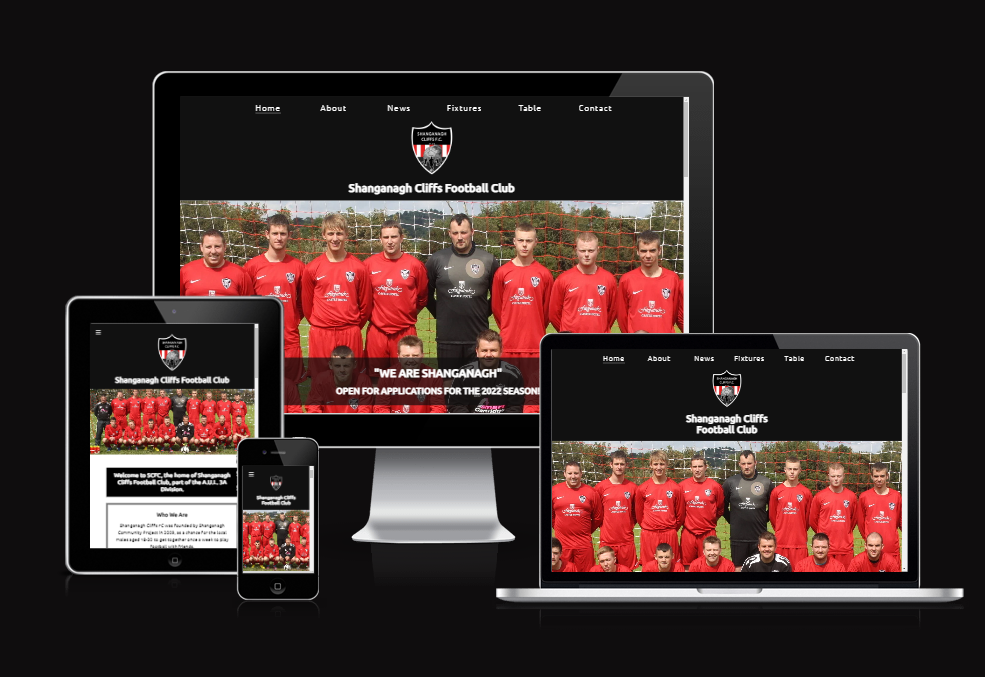
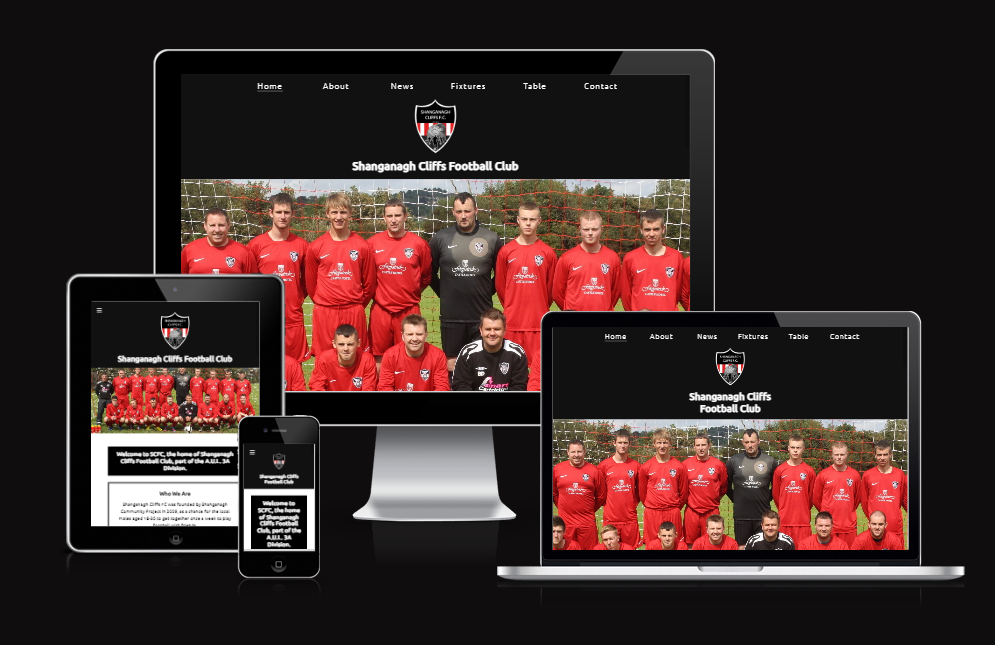
Add Bugs Not Fixed and image to README.md

Changed region(s): [[0.0609, 0.062, 0.9746, 0.8992]]

diff --git a/README.md b/README.md
@@ -36,6 +36,7 @@ The website also has a contact form which will allow local businesses to get in 
     * [Lighthouse Testing](#lighthouse-testing)
     * [Other Testing](#other-testing)
 5. [Bugs Found and Fixed](#bugs-found-and-fixed)
+    * [Bugs Not Fixed](#bugs-not-fixed)
 6. [Credits And Sources](#credits-and-sources)
 7. [Deployment](#deployment)
 8. [Acknowledgements](#acknowledgements)
@@ -263,6 +264,7 @@ The main goal of the website is to encourage more fans/members of the local comm
  - Report on mobile, when the hero image was present, gave an 82 performance score. This was to do with a Large Contentful Paint - the loading of the image. I decided to remove it from mobile versions.
 
 ![Lighthouse Error](assets/documentation/mobile-performance.png)
+![Lighthouse Error](assets/documentation/mobile-report.png)
 
 <br>
 
@@ -322,6 +324,14 @@ The main goal of the website is to encourage more fans/members of the local comm
 - The logo.webp image inside the Flexbox for Fixtures, was giving an arror in Lighthouse as not having a width and height attribute. This did originally have the width and height, as the same image does in the Header, however it then lowered my Lighthouse "Best Practices" score to 92, as it was giving me the error "Image display dimensions should match natural aspect ratio". I thought this had to do with the width of the flexbox element itself. I tried to give the div both a larger and smaller percentage of the Flex container, however neither of these fixed the issue. I then realised I had given the image itself some CSS attributes with min-height. When this was removed, the error resolved.
 
 ![Lighthouse Error](assets/documentation/lighthouse-image-error.png)
+
+<br>
+
+# Bugs Not Fixed
+
+ - Report on mobile, when the hero-image was present, gave an 82 performance score. This was to do with a Large Contentful Paint - the loading of the image. At first, my research lead me to believe I needed to add a pre-load to the header, so the image was loaded at a high priority. This however, only pushed the performance up to an 87. I then tried to resize the hero-image, so it would not take as much time to load but again, this didn't help the performance. In the end, I decided to just remove the image from displaying on mobile.
+
+![Lighthouse Error](assets/documentation/mobile-performance.png)
 
 <br>
 
